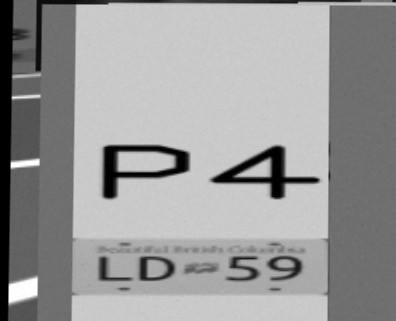
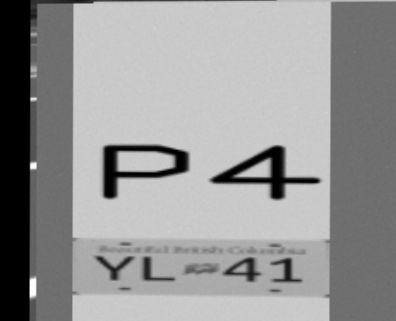
Integrated model with homography, kind of a bag ngl.

diff --git a/src/mcqueen_controller/src/homography.py b/src/mcqueen_controller/src/homography.py
@@ -5,6 +5,9 @@ import sys
 import cv2
 import numpy as np
 
+from tensorflow.compat.v1 import get_default_graph
+from tensorflow.python.keras import models
+from tensorflow.python.keras import backend
 from cv_bridge import CvBridge, CvBridgeError
 from sensor_msgs.msg import Image
 
@@ -12,10 +15,15 @@ from sensor_msgs.msg import Image
 MIN_CAR_MATCHES = 14
 MIN_PLATE_MATCHES = 8
 
+sess = backend.get_session()
+graph = get_default_graph()
+
 
 class Homography():
 
     def __init__(self):
+        self.model = models.load_model('/home/fizzer/Desktop/Keras_Models/car_model_2')
+
         self.sift = cv2.xfeatures2d.SIFT_create()
         self.image_sub = rospy.Subscriber('/R1/pi_camera/image_raw', Image, self.callback, queue_size=1, buff_size=1000000)
         self.bridge = CvBridge()
@@ -45,7 +53,8 @@ class Homography():
         if car_homography is not None:
             # plate_homography = self.run_homography(car_homography, False)
             # self.splice_homography(car_homography)
-            self.slice_number(car_homography)
+            processed_number = self.slice_number(car_homography)
+            self.generate_prediction(processed_number)
 
     
     # Method for generating homography on an image
@@ -66,7 +75,6 @@ class Homography():
             cv2.imshow('reference_image', reference_image)
             cv2.imshow('grayframe', grayframe)
             cv2.waitKey(3)
-
         else:
             reference_image = self.plate_templates[self.plate_num]
             kp_image, desc_image = self.kp_desc_plates[self.plate_num]
@@ -124,7 +132,8 @@ class Homography():
         number_slice = image[int(0.25*h):-1*int(0.25*h),int(0.5*w):-1*int(0.2*w)]
         cv2.imshow('gyuh', number_slice)
         cv2.imwrite('/home/fizzer/ros_ws/src/mcqueen_controller/src/Homography_Matches/Sliced_Numbers/slice_p{}.jpg'.format(self.plate_num), number_slice)
-        return
+        
+        return number_slice
 
     # Image contouring
     def image_contour(self, image):
@@ -135,4 +144,27 @@ class Homography():
 
     # Method for getting the prediction of a homographic match
     def generate_prediction(self, image):
+        img = self.process_img(image)
+        img = np.expand_dims(img, axis=0)
+
+        with graph.as_default():
+            backend.set_session(sess)
+            predicted_car = self.model.predict(img)[0]
+
+        index_pred = np.argmax(predicted_car)
+
+        res = [0] * 8
+        res[index_pred] = 1
+
+        print("Predicted: ", index_pred + 1)
+        print("Confidence: ", predicted_car)
+
         return
+
+
+    def process_img(self, image):
+        print(image.shape)
+        img = cv2.resize(image, (100,130))
+        img = img.reshape(img.shape[0], img.shape[1], 1)
+
+        return img
